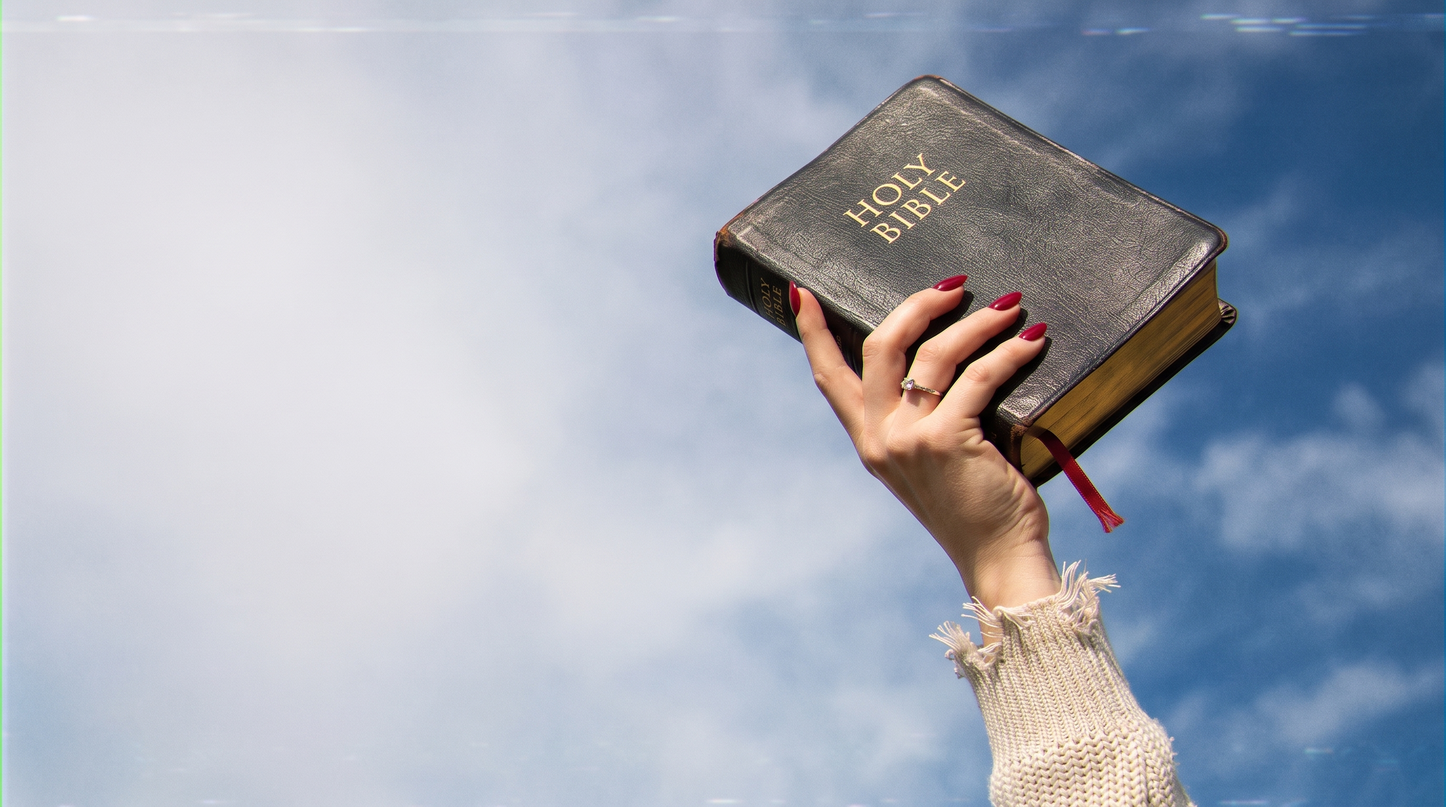
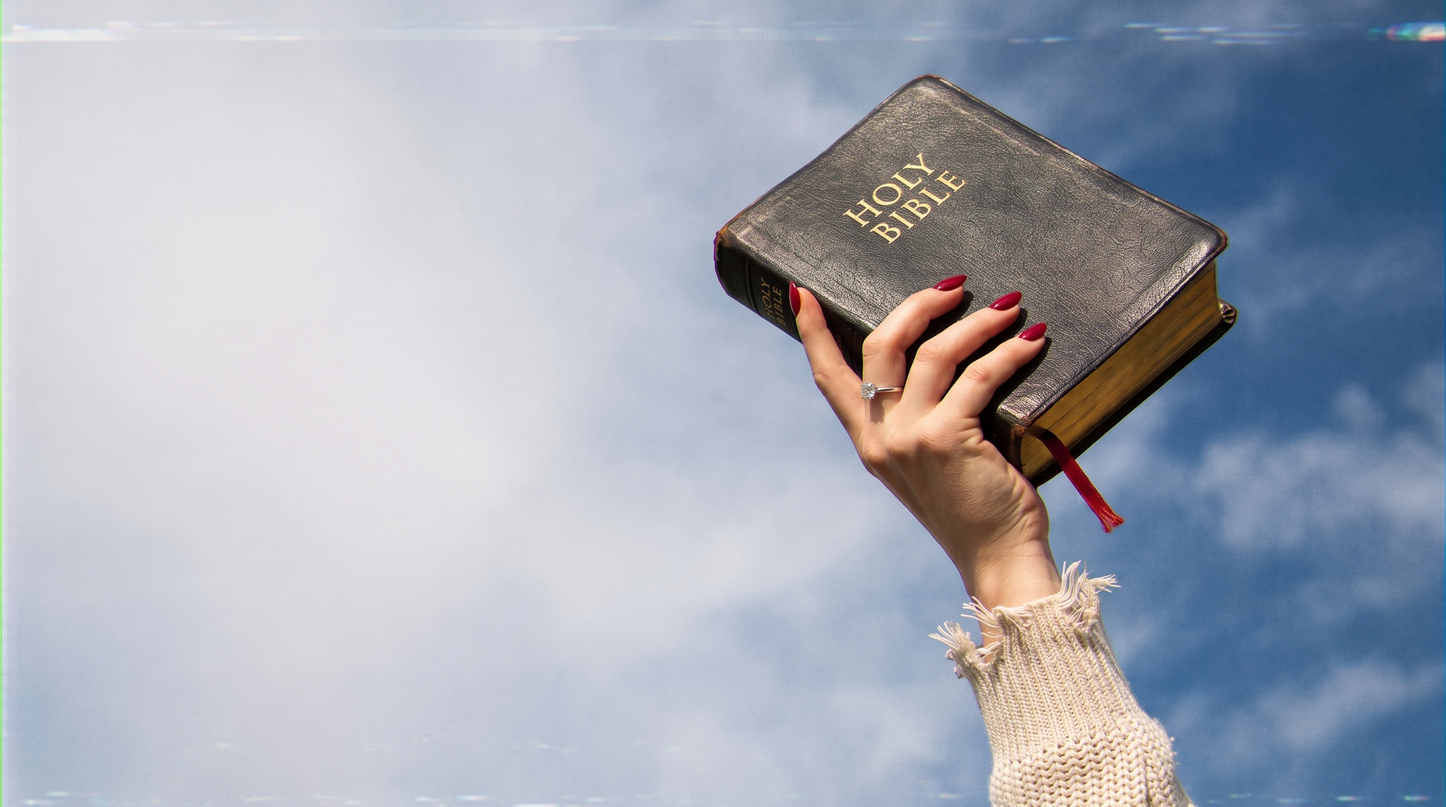
fix: use updated main hero image

diff --git a/site/src/assets/hero/SOURCE.md b/site/src/assets/hero/SOURCE.md
@@ -1,6 +1,6 @@
 # hero-sky.jpg — source note
 
-- Derived from the workspace file `MainPage.jpg` (2752 × 1536), resized to 2400 px wide for local preview.
+- Refreshed 3 October 2026 from the updated workspace file `MainPage.jpg` (2752 × 1536), resized to 2400 px wide for local preview.
   Astro generates AVIF/WebP/JPEG sizes from it at build time; generated files carry no source metadata.
 - Shows an anonymous hand holding a Bible against a blue sky. **It is not a photograph of Lina** and
   must never be captioned or described as her.
